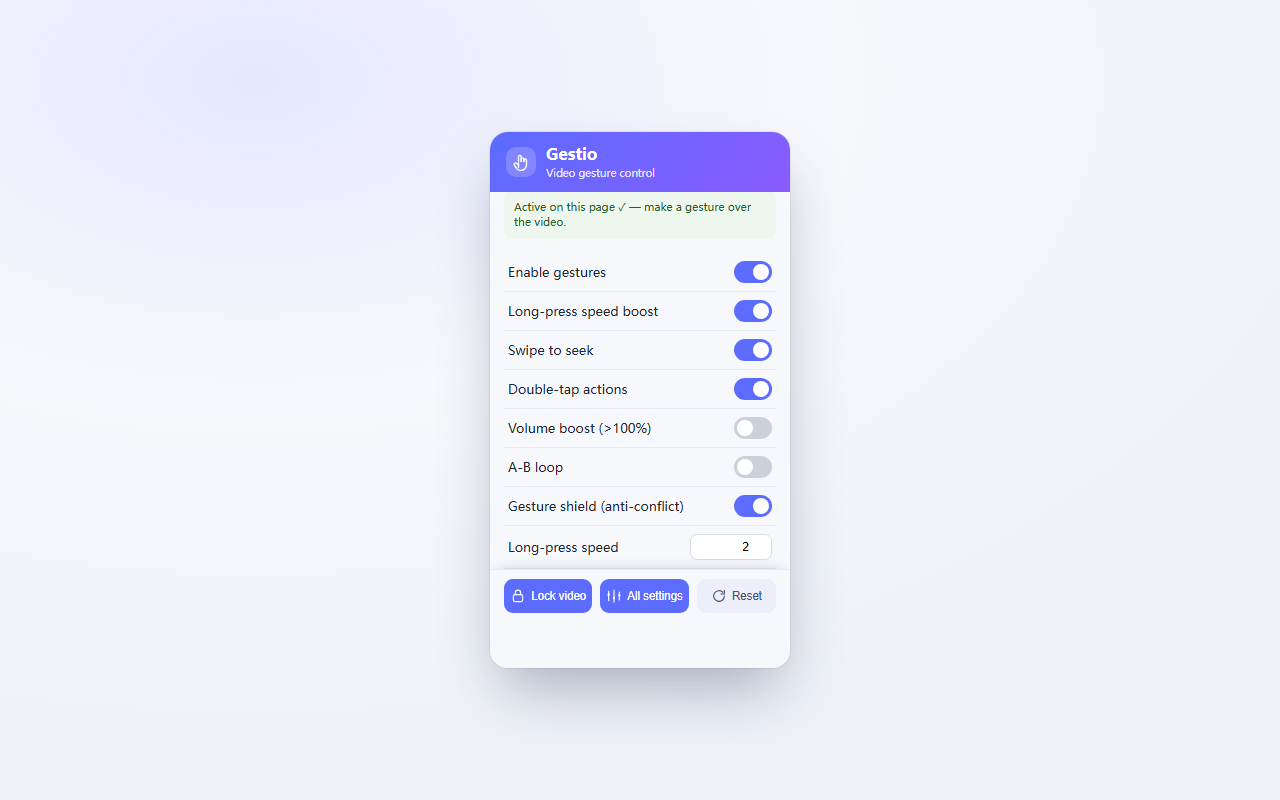
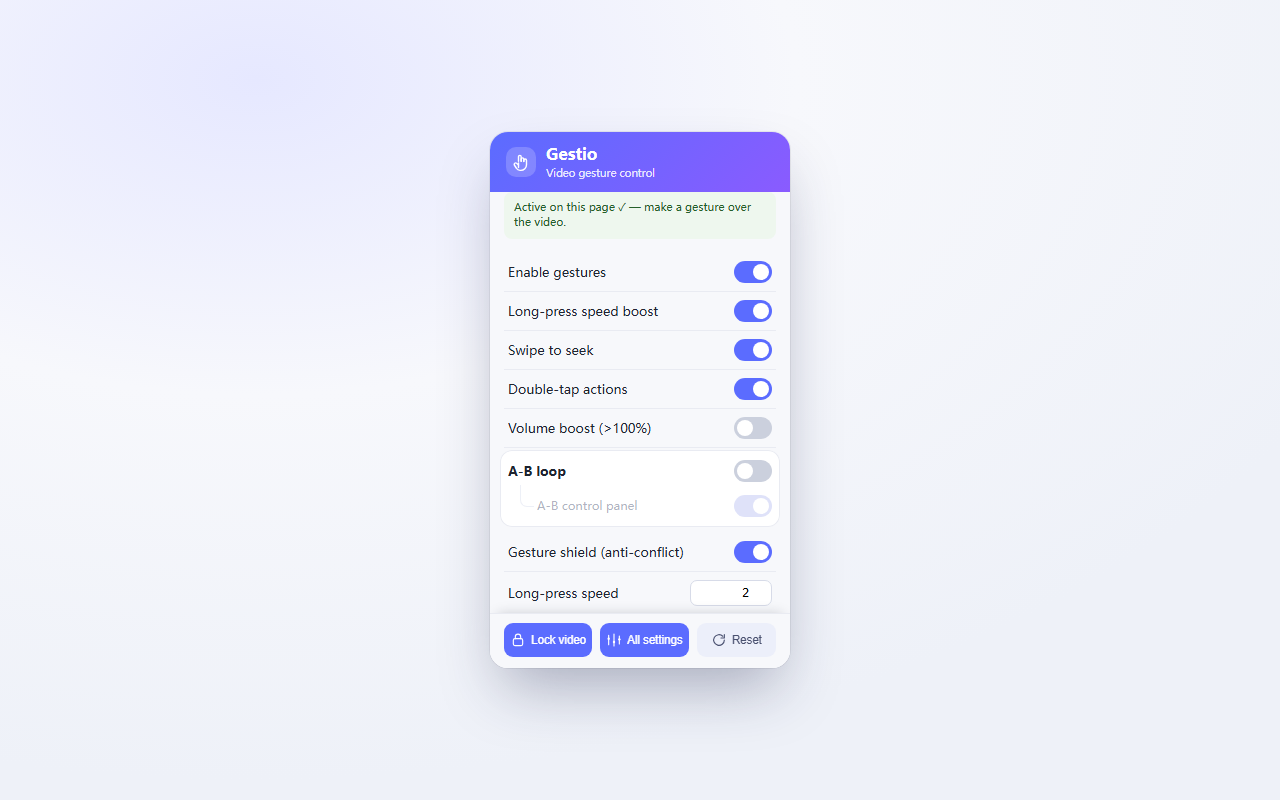
1.0.34: the A-B loop can stop itself after N passes
`maxLoops` used to be a per-page field that nothing could ever set: it was
initialised to 0, persisted as 0 and read by a `maxLoops > 0` guard, so the
"max loops reached" branch and its message were unreachable and an A-B loop
always repeated forever. That is also the behaviour people expect, so it stays
the default — the limit is opt-in.

- **Settings > A-B loop** gains a pair: "Stop after a set number of loops"
  (off) and "Loop count" (1–99, default 3). The count is disabled and dimmed
  while the switch is off, rather than hidden, so flipping the switch does not
  move the rest of the card. Both save instantly like every other control.
- **What stopping means**: the loop counts its passes, pauses the video after
  the last one, and the button goes back to its "off" state. A and B are left
  alone, so pressing it again repeats the same segment from a fresh count. The
  hint says the count was reached instead of "max loops reached", which named a
  limit nobody had set.
- **The limit is read from the settings on every lap**, not cached in the page,
  so editing the count (or switching the limit off) applies to the next pass
  instead of the next page load. A count that is not a positive integer falls
  back to "no limit".
- The per-page `maxLoops` field is gone from what `saveConfig` writes; old
  stored blobs that still carry it are simply ignored.
- Screenshots regenerated (the version chip reads 1.0.34); READMEs note the new
  behaviour.

Changed region(s): [[0.375, 0.5625, 0.5938, 0.8438], [0.4062, 0.5625, 0.4375, 0.5938]]

diff --git a/tests/gesture-unit-test.js b/tests/gesture-unit-test.js
@@ -2183,6 +2183,72 @@ async function main() {
       sr.getElementById("ta").textContent);
   }
 
+  // --- "stop after N loops" (1.0.34) --------------------------------------
+  // Off by default. An A-B loop is a repeat, so one that gave up after a few
+  // passes without being asked for a limit would be a bug, not a feature.
+  {
+    const env = makeEnv({ abLoopEnabled: true, abMaxLoopsOn: true, abMaxLoopsCount: 2 },
+      { config: { a: 100, b: 130 } });
+    env.window.eval(src);
+    await sleep(240);
+    const panel = () => env.window.document.querySelector('[data-gestio="abpanel"]');
+    tap(env, panel().shadowRoot.getElementById("loop"));
+    await sleep(80);
+    // A lap is the playhead being parked past B — jsdom never advances time, so
+    // the test plays the video itself. Counting seeks to A is the honest check:
+    // the seek is what "it repeated" means.
+    const laps = () => env.seeks.filter((x) => Math.abs(x - 100) < 0.3).length;
+    const lap = async () => {
+      const before = laps();
+      env.v.currentTime = 130.4;
+      const t0 = Date.now();
+      while (Date.now() - t0 < 1200) {
+        if (laps() > before) return true;
+        await sleep(40);
+      }
+      return false;
+    };
+    check("[ab] pass 1 repeats the segment", await lap(), JSON.stringify(env.seeks.slice(-2)));
+    // Pass 2 is the limit, so it must stop instead of seeking back to A.
+    env.v.currentTime = 130.4;
+    await sleep(420);
+    const sr = panel().shadowRoot;
+    check("[ab] the last allowed pass stops the loop",
+      sr.getElementById("loop").getAttribute("data-state") === "off",
+      sr.getElementById("loop").getAttribute("data-state"));
+    check("[ab] ...pauses the video", env.v.paused === true, String(env.v.paused));
+    check("[ab] ...and does not seek again", laps() === 1, JSON.stringify(env.seeks));
+    check("[ab] the marks survive the stop", /A 0:01:40/.test(sr.getElementById("ta").textContent),
+      sr.getElementById("ta").textContent);
+  }
+  {
+    // The switch is what turns the limit on: with it off the same count means
+    // nothing and the segment keeps repeating, which is the 1.0.33 behaviour.
+    const env = makeEnv({ abLoopEnabled: true, abMaxLoopsCount: 1 },
+      { config: { a: 100, b: 130 } });
+    env.window.eval(src);
+    await sleep(240);
+    tap(env, env.window.document.querySelector('[data-gestio="abpanel"]').shadowRoot.getElementById("loop"));
+    await sleep(80);
+    const laps = () => env.seeks.filter((x) => Math.abs(x - 100) < 0.3).length;
+    const lap = async () => {
+      const before = laps();
+      env.v.currentTime = 130.4;
+      const t0 = Date.now();
+      while (Date.now() - t0 < 1200) {
+        if (laps() > before) return true;
+        await sleep(40);
+      }
+      return false;
+    };
+    check("[ab] limit off: pass 1 repeats", await lap(), JSON.stringify(env.seeks.slice(-2)));
+    check("[ab] limit off: pass 2 repeats too", await lap(), JSON.stringify(env.seeks.slice(-2)));
+    const sr = env.window.document.querySelector('[data-gestio="abpanel"]').shadowRoot;
+    check("[ab] limit off: the loop is still running",
+      sr.getElementById("loop").getAttribute("data-state") === "on",
+      sr.getElementById("loop").getAttribute("data-state"));
+  }
+
   // --- a card drag must not drive the player behind it (1.0.32) -----------
   // On Android/Edge in fullscreen a drag on the card also ran the player's own
   // gesture: the picture jumped to the finger (seek), the volume/brightness

diff --git a/content/gesture.js b/content/gesture.js
@@ -35,7 +35,7 @@
     abLoopDisabled: "A-B Loop disabled",
     abLoopCleared: "Loop cleared",
     abLoopTooShort: "Too short (min 0.5s)",
-    abLoopMaxReached: "Max loops reached",
+    abLoopMaxReached: "Loop stopped · count reached",
     abGuideSetA: "Mark loop start",
     abGuideSetB: "Mark loop end",
     abStart: "Start A-B loop",
@@ -74,7 +74,7 @@
     abLoopDisabled: "A-B 循环已关闭",
     abLoopCleared: "循环已清除",
     abLoopTooShort: "区间太短（最小 0.5 秒）",
-    abLoopMaxReached: "已达最大循环次数",
+    abLoopMaxReached: "已达设定次数 · 循环停止",
     abGuideSetA: "标记循环起点",
     abGuideSetB: "标记循环终点",
     abStart: "开始 A-B 循环",
@@ -1467,7 +1467,7 @@
   // ---------------------------------------------------------------------------
   const AB = {
     video: null, phase: "IDLE", a: null, b: null,
-    loopCount: 0, maxLoops: 0, on: false, raf: 0, panel: null,
+    loopCount: 0, on: false, raf: 0, panel: null,
     // Cached placement state: the stored inset (pos), the last measured card
     // size, the scale the card was last drawn at, where it was put last (for
     // drag offsets) and a short busy window so an in-flight seek cannot
@@ -1533,7 +1533,7 @@
     if (!S || !S.abLoopEnabled) return;
     const data = await loadConfig(abKey());
     if (data && typeof data === "object" && Number.isFinite(data.a) && Number.isFinite(data.b)) {
-      AB.a = data.a; AB.b = data.b; AB.maxLoops = data.maxLoops || 0;
+      AB.a = data.a; AB.b = data.b;
       AB.phase = "IDLE"; AB.on = false;
       updateABPanel();
     }
@@ -1542,7 +1542,7 @@
   const persistAB = () => {
     clearTimeout(abSaveTimer);
     abSaveTimer = setTimeout(() => {
-      saveConfig(abKey(), { a: AB.a, b: AB.b, maxLoops: AB.maxLoops, url: location.href, title: document.title });
+      saveConfig(abKey(), { a: AB.a, b: AB.b, url: location.href, title: document.title });
     }, 300);
   };
   // The lap seek has to be exact and single-shot. It used to go through
@@ -1569,6 +1569,16 @@
     } catch (_) {}
     try { v.currentTime = t; } catch (_) {}
   };
+  // How many passes before the loop stops itself. 0 = never, and that is the
+  // default: not asking for a limit must never produce one. It is read from the
+  // settings on every lap instead of being cached in the page, so editing the
+  // count (or switching the limit off) applies to the next lap, not the next
+  // page load.
+  const abLoopLimit = () => {
+    if (!S || !S.abMaxLoopsOn) return 0;
+    const n = Math.round(Number(S.abMaxLoopsCount));
+    return Number.isFinite(n) && n > 0 ? Math.min(n, 99) : 0;
+  };
   const abWatch = () => {
     cancelAnimationFrame(AB.raf);
     const tick = () => {
@@ -1587,8 +1597,12 @@
       if (now < AB.busyUntil) return;
       if (v.currentTime >= AB.b - 0.05 || v.currentTime < AB.a - 0.5) {
         AB.loopCount++;
-        if (AB.maxLoops > 0 && AB.loopCount >= AB.maxLoops) {
-          // The button has two states, so a finished loop is simply off.
+        const limit = abLoopLimit();
+        if (limit && AB.loopCount >= limit) {
+          // The button has two states, so a finished loop is simply off. A and B
+          // stay put: pressing it again repeats the same segment, from a fresh
+          // count (abToggle resets loopCount).
+          try { unpinRate(v); } catch (_) {}
           v.pause(); AB.on = false;
           cancelAnimationFrame(AB.raf);
           showHint(t("abLoopMaxReached"));

diff --git a/options.js b/options.js
@@ -98,6 +98,12 @@ const SCHEMA = [
 
   // ---- A-B loop ----
   ["abLoopEnabled", "A-B loop", "bool", "g-ab", "Repeat a chosen segment; adds an on-screen control panel."],
+  // Repeating forever is the default and stays the default: a loop that quietly
+  // gives up after a few passes would confuse anyone who never asked for a
+  // limit. The two controls read as one pair — the count is disabled, not
+  // hidden, while the switch is off, so flipping it does not move the page.
+  ["abMaxLoopsOn", "Stop after a set number of loops", "bool", "g-ab", "Off: the segment repeats until you stop it. On: the loop stops itself after the number of passes set below, and A/B stay where they are."],
+  ["abMaxLoopsCount", "Loop count", "num", "g-ab", "Passes before the loop stops itself. Pressing the loop button again starts a fresh count.", [1, 99, 1]],
   ["abShortcutsEnabled", "A-B keyboard shortcuts", "bool", "g-ab", "Enable the keyboard shortcuts (editable in Advanced)."],
   ["abPanelOpacityOn", "Panel opacity while looping", "range", "g-ab", "The bar fades while the loop runs, so it stays out of the picture.", [0.2, 1, 0.05]],
   ["abPanelOpacityOff", "Panel opacity when idle", "range", "g-ab", "When the loop is paused or off the bar is drawn more clearly, because then it is a control.", [0.2, 1, 0.05]],
@@ -142,7 +148,7 @@ const UNITS = {
   brightnessMin: "%", brightnessMax: "%",
   sideBarWidth: "px", sideBarHeightRatio: "%", sideBarMargin: "px", sideBarHideDelay: "ms",
   lockBtnSize: "px",
-  abPanelOpacityOn: "%", abPanelOpacityOff: "%",
+  abPanelOpacityOn: "%", abPanelOpacityOff: "%", abMaxLoopsCount: "×",
   minVideoSize: "px", minVideoArea: "px²", moveThreshold: "px",
   directionThreshold: "px", clickBlockTimeout: "ms"
 };
@@ -384,6 +390,7 @@ function fill(s) {
   });
   updateGridPreview();
   updateZoneHint();
+  updateAbLoopLimit();
 }
 
 /* ---------- language ---------- */
@@ -542,6 +549,19 @@ function updateZoneHint() {
   hint.classList.toggle("warn", !custom);
 }
 
+/* ---------- A-B loop limit: the count follows its switch ---------- */
+// Disabled rather than hidden: a row that disappears and reappears makes the
+// rest of the card jump while you are reading it.
+function updateAbLoopLimit() {
+  const sw = document.querySelector('input[data-k="abMaxLoopsOn"]');
+  const on = !!(sw && sw.checked);
+  document.querySelectorAll('input[data-k="abMaxLoopsCount"]').forEach((el) => {
+    el.disabled = !on;
+    const row = el.closest ? el.closest(".row") : null;
+    if (row) row.classList.toggle("is-dim", !on);
+  });
+}
+
 /* ---------- collect & save ---------- */
 function collectAll() {
   const out = {};
@@ -633,6 +653,7 @@ function wire() {
       updateGridPreview();
       updateZoneHint();
     }
+    if (el.dataset.k === "abMaxLoopsOn") updateAbLoopLimit();
     if (el.dataset.k === "language") {
       // Keep `settings` in step with the DOM right away: the guide link and the
       // write-through below read from it, and the debounced save is 250ms away.

diff --git a/tests/options-unit-test.js b/tests/options-unit-test.js
@@ -168,6 +168,30 @@ async function main() {
       s4 && String(s4.gesturePlayWhenPaused));
   }
 
+  // 9d. "stop after N loops" is a switch plus a count: off by default, and the
+  //     count only means something while the switch is on (it is disabled, not
+  //     hidden, so flipping the switch does not move the rest of the card).
+  {
+    const limSw = doc.querySelector('input[type=checkbox][data-k="abMaxLoopsOn"]');
+    const cnt = doc.querySelector('input[type=number][data-k="abMaxLoopsCount"]');
+    check('loop limit switch exists', !!limSw);
+    check('loop limit defaults to off', limSw && limSw.checked === false, limSw && String(limSw.checked));
+    check('loop count renders the default', cnt && cnt.value === String(DEFAULTS.abMaxLoopsCount), cnt && cnt.value);
+    check('loop count is disabled while the switch is off', cnt && cnt.disabled === true, cnt && String(cnt.disabled));
+    if (limSw && cnt) {
+      clickSwitchByKey(env.window, 'abMaxLoopsOn');
+      limSw.dispatchEvent(new env.window.Event('input', { bubbles: true }));
+      await sleep(60);
+      check('turning the limit on enables the count', cnt.disabled === false, String(cnt.disabled));
+      cnt.value = '5';
+      cnt.dispatchEvent(new env.window.Event('change', { bubbles: true }));
+      await sleep(350);
+      const s5 = env.getSaved();
+      check('the limit pair is saved', s5 && s5.abMaxLoopsOn === true && s5.abMaxLoopsCount === 5,
+        s5 && (s5.abMaxLoopsOn + ' / ' + s5.abMaxLoopsCount));
+    }
+  }
+
   // 10. no visible "PRO" string anywhere in the options page
   check('options page has no PRO label', !doc.body.textContent.includes('PRO'), 'PRO found: ' + doc.body.textContent.includes('PRO'));
   {

diff --git a/i18n.js b/i18n.js
@@ -211,6 +211,12 @@
     /* ---- A-B / lock ---- */
     "A-B loop": "A-B 循环",
     "Repeat a chosen segment; adds an on-screen control panel.": "重复选定片段；附带屏幕控制面板。",
+    "Stop after a set number of loops": "循环 N 次后自动停止",
+    "Off: the segment repeats until you stop it. On: the loop stops itself after the number of passes set below, and A/B stay where they are.":
+      "关闭（默认）：一直重复该片段，直到你手动停止。开启：播完下面设定的次数后自动停下，A、B 标记保留。",
+    "Loop count": "循环次数",
+    "Passes before the loop stops itself. Pressing the loop button again starts a fresh count.":
+      "自动停止前重复的遍数。再次按下循环按钮会从头计数。",
     "A-B keyboard shortcuts": "A-B 键盘快捷键",
     "Enable the keyboard shortcuts (editable in Advanced).": "启用键盘快捷键（可在“高级”中编辑）。",
     "Panel opacity while looping": "循环播放时面板不透明度",

diff --git a/options.html b/options.html
@@ -107,6 +107,9 @@
   /* zone selects are read-only unless "Custom" is the preferred hand */
   #g-zones.is-preset select{opacity:.55;cursor:not-allowed}
   #g-zones.is-preset .row{opacity:.85}
+  /* a control that only means something while its switch above is on */
+  .row.is-dim .info{opacity:.55}
+  .row.is-dim input{cursor:not-allowed}
   textarea{width:100%;min-height:72px;box-sizing:border-box;margin-top:8px;padding:9px 11px;border:1px solid #d7dbe8;border-radius:8px;font:12px/1.5 ui-monospace,Consolas,monospace;resize:vertical}
   .jsonrow{display:block;padding:12px 0;border-bottom:1px solid var(--line)}
   .jsonrow:last-child{border-bottom:0}

diff --git a/CHANGELOG.md b/CHANGELOG.md
@@ -2,6 +2,21 @@
 
 All notable changes to Gestio. The extension version in `manifest.json` follows this file.
 
+## 1.0.34 — 2026-11-21
+
+- **A-B loop can stop itself after N passes.** Two controls in Settings >
+  A-B loop: a switch (off by default) and a count (1–99, default 3). Off, the
+  segment repeats until it is stopped by hand — that was the behaviour before
+  and it stays the default. On, the loop counts its passes, pauses the video
+  after the last one and leaves the button "off", with A and B untouched, so
+  pressing it again runs the same segment from a fresh count. The count is
+  disabled rather than hidden while the switch is off.
+- `maxLoops` used to be a per-page stored field that nothing could ever set: the
+  guard read `maxLoops > 0` and nothing wrote anything but 0, so the "max loops
+  reached" branch and its message were unreachable. The limit comes from the
+  settings now, read on every lap, so editing it mid-loop applies to the next
+  lap.
+
 ## 1.0.33 — 2026-11-21
 
 - **The Hide flag lives in sessionStorage.** It is transient view state ("not

diff --git a/README.md b/README.md
@@ -24,7 +24,7 @@ with first-class support for **Edge and Chrome on Android**.
 | **Double tap** | Left = back 10 s, centre = play/pause, right = forward 10 s. Repeated taps accumulate (20 s, 30 s, …) when enabled. |
 | **Two-finger tap** | Locks brightness (left half) or volume (right half) independently, so a stray swipe cannot move it. |
 | **One-handed mode** | Right / left / custom zone mapping, 3×1 or 3×2 grid, adjustable gesture-area height. |
-| **A-B loop** | On-screen panel plus keyboard shortcuts (`[` `]` `\` `P` `Alt+L`, all editable). |
+| **A-B loop** | On-screen panel plus keyboard shortcuts (`[` `]` `\` `P` `Alt+L`, all editable). Repeats until stopped, or stops itself after a set number of passes. |
 | **Lock button** | Full-screen touch guard for kids / pocket mode, with play and skip controls still available. |
 | **Alt + scroll** | Step-by-step seeking without moving the pointer over the video. |
 | **Per-site rules** | Disable on chosen domains, or block page touch handlers on chosen domains. |

diff --git a/README.zh-CN.md b/README.zh-CN.md
@@ -22,7 +22,7 @@
 | **双击** | 左区后退 10 秒、中区播放/暂停、右区前进 10 秒；开启累加后连点即 20 秒、30 秒…… |
 | **双指轻点** | 左半屏锁亮度、右半屏锁音量，两边各自独立，锁定后误触不会改动数值。 |
 | **单手模式** | 右手 / 左手 / 自定义分区，3×1 或 3×2 网格，手势区域高度可调。 |
-| **A-B 循环** | 屏幕上的控制面板，或键盘 `[` `]` `\` `P` `Alt+L`（均可自定义）。 |
+| **A-B 循环** | 屏幕上的控制面板，或键盘 `[` `]` `\` `P` `Alt+L`（均可自定义）。默认一直重复，也可设为循环 N 次后自动停止。 |
 | **锁定按钮** | 全屏触摸护盾，防误触，锁定期间仍保留播放与快进快退。 |
 | **Alt + 滚轮** | 不用把鼠标移回视频也能逐步跳转。 |
 | **按站点规则** | 指定域名禁用扩展，或指定域名拦截页面自身的触摸处理。 |
